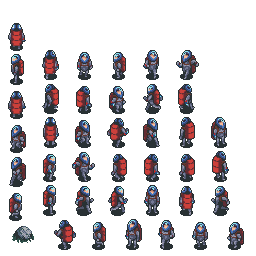
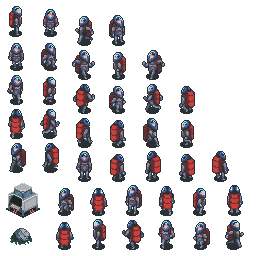
fixed isometric separated tilesets

diff --git a/res/tiled/alpha.tsx b/res/tiled/alpha.tsx
@@ -1,0 +1,34 @@
+<?xml version="1.0" encoding="UTF-8"?>
+<tileset version="1.2" tiledversion="1.3.1" name="alpha" tilewidth="48" tileheight="46" tilecount="10" columns="0">
+ <grid orientation="orthogonal" width="1" height="1"/>
+ <tile id="0">
+  <image width="48" height="31" source="separated/floor.png"/>
+ </tile>
+ <tile id="1">
+  <image width="46" height="46" source="separated/pcgmw.png"/>
+ </tile>
+ <tile id="12">
+  <image width="46" height="24" source="separated/textures/walls/ship_wall_bottom_corner.png"/>
+ </tile>
+ <tile id="13">
+  <image width="46" height="24" source="separated/textures/walls/ship_wall_bottom_line.png"/>
+ </tile>
+ <tile id="14">
+  <image width="46" height="24" source="separated/textures/walls/ship_wall_bottom_line_cut.png"/>
+ </tile>
+ <tile id="15">
+  <image width="46" height="24" source="separated/textures/walls/ship_wall_center_line.png"/>
+ </tile>
+ <tile id="16">
+  <image width="46" height="24" source="separated/textures/walls/ship_wall_center_line_cut.png"/>
+ </tile>
+ <tile id="17">
+  <image width="46" height="24" source="separated/textures/walls/ship_wall_top_corner.png"/>
+ </tile>
+ <tile id="18">
+  <image width="46" height="24" source="separated/textures/walls/ship_wall_top_line.png"/>
+ </tile>
+ <tile id="19">
+  <image width="46" height="24" source="separated/textures/walls/ship_wall_top_line_cut.png"/>
+ </tile>
+</tileset>

diff --git a/res/tiled/colls.tsx b/res/tiled/colls.tsx
@@ -1,10 +1,10 @@
 <?xml version="1.0" encoding="UTF-8"?>
-<tileset version="1.2" tiledversion="1.3.1" name="colls" tilewidth="46" tileheight="32" tilecount="2" columns="2">
+<tileset version="1.2" tiledversion="1.3.1" name="colls" tilewidth="46" tileheight="46" tilecount="3" columns="2">
  <grid orientation="orthogonal" width="2" height="2"/>
  <tile id="0">
   <image width="46" height="27" source="separated/q/rock.png"/>
   <objectgroup draworder="index" id="2">
-   <object id="4" x="12" y="5" width="22" height="14">
+   <object id="4" x="10" y="7" width="22" height="14">
     <ellipse/>
    </object>
   </objectgroup>
@@ -16,5 +16,8 @@
     <ellipse/>
    </object>
   </objectgroup>
+ </tile>
+ <tile id="3">
+  <image width="46" height="46" source="separated/pcgmw.png"/>
  </tile>
 </tileset>
